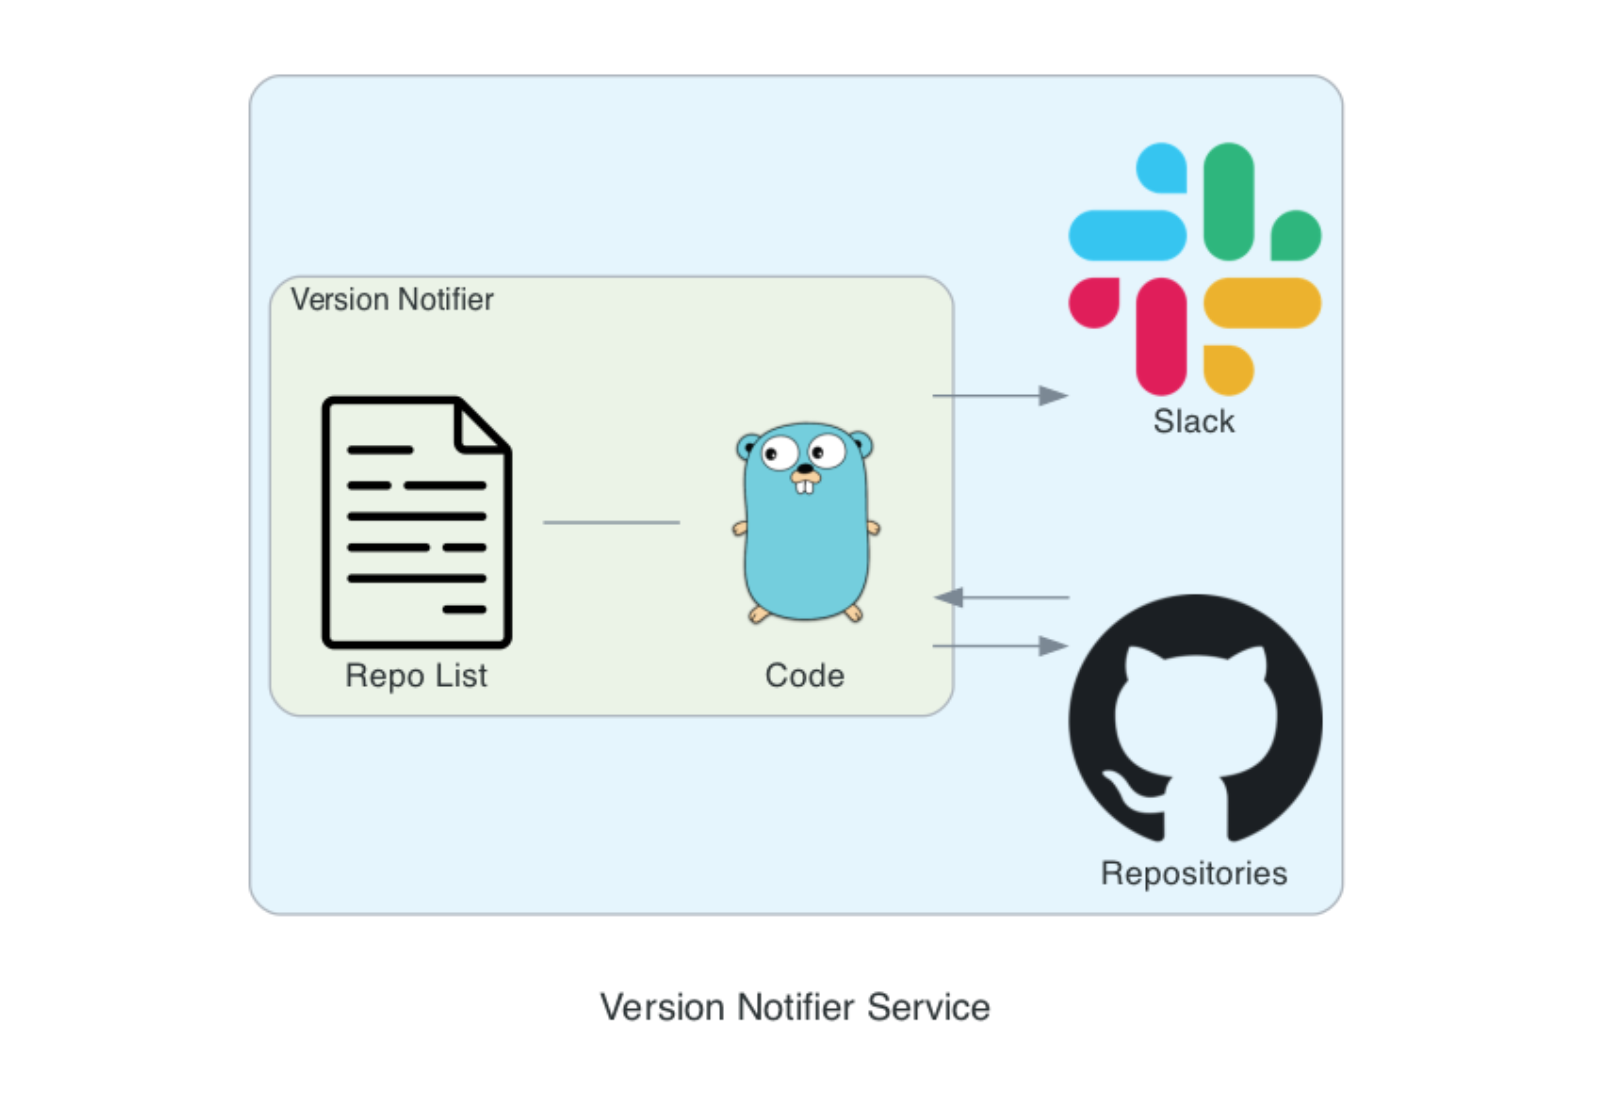
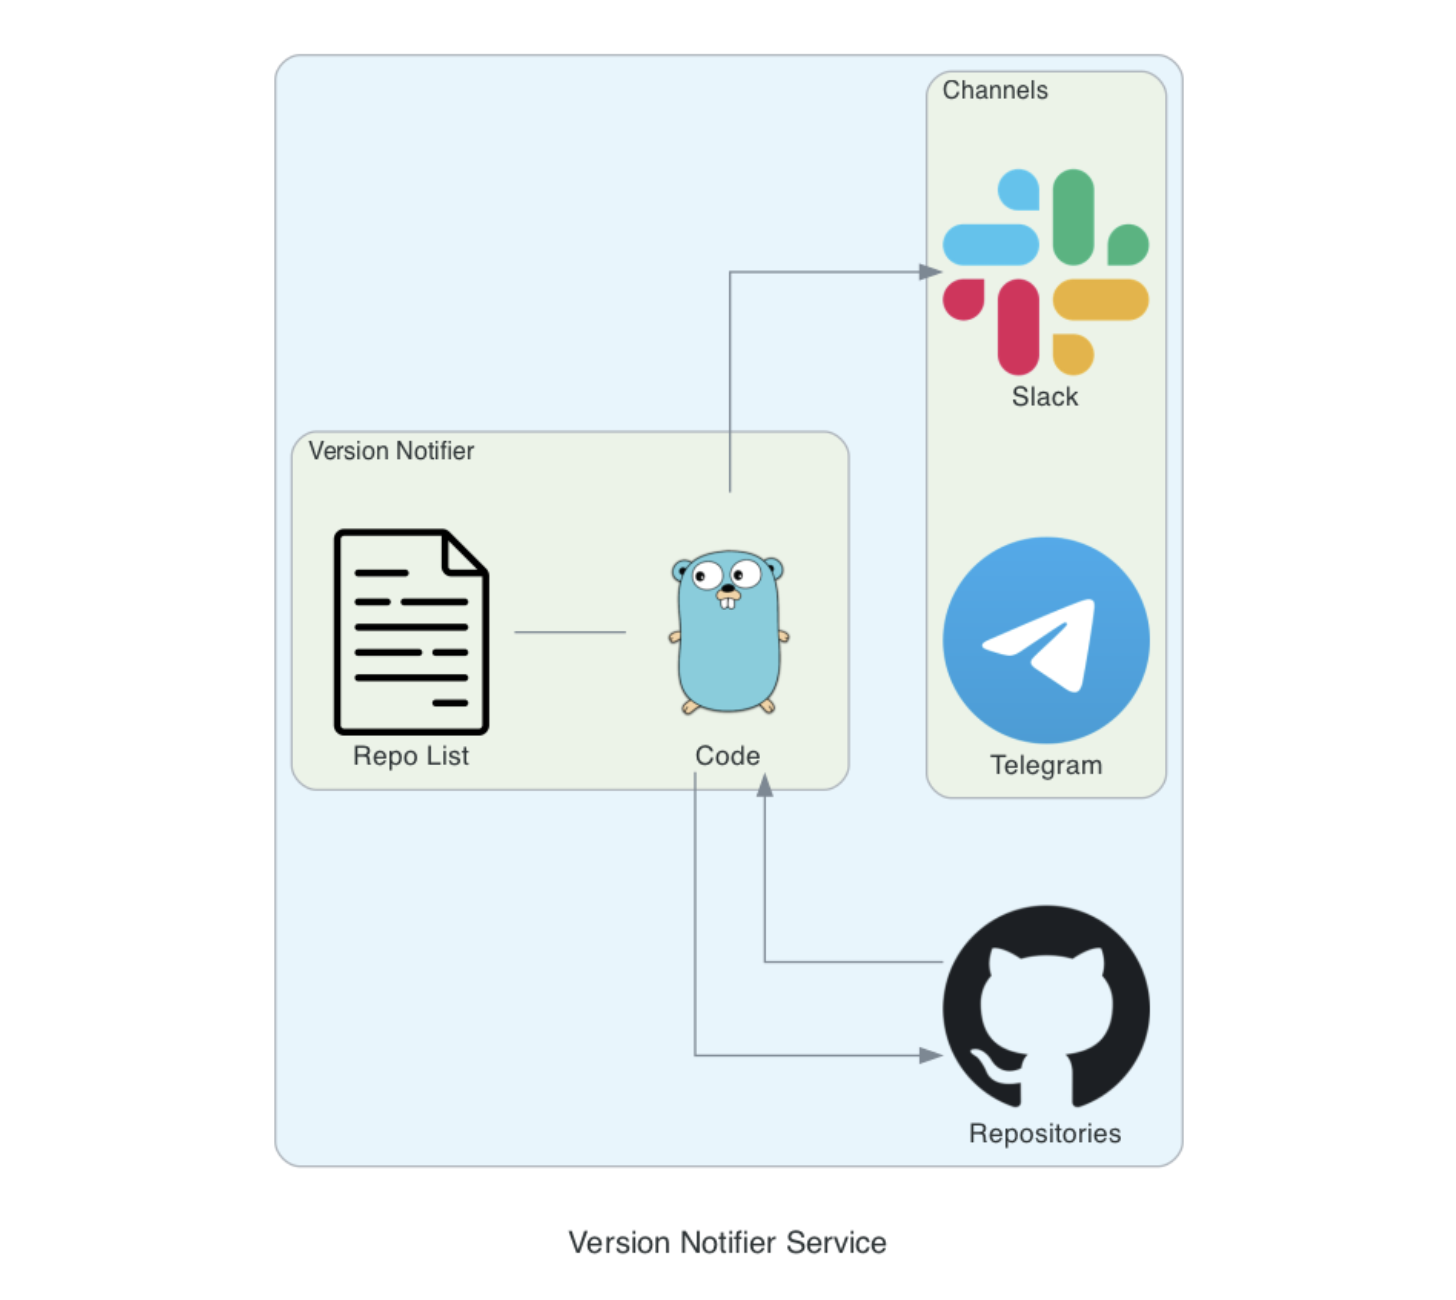
[skip Chart Release] add telegram method

diff --git a/src/internal/telegram_notifier/telegram_notifier.go b/src/internal/telegram_notifier/telegram_notifier.go
@@ -5,9 +5,11 @@ import (
 	"log"
 	"os"
 	"strconv"
+	"strings"
 	"yuvalpress/version-notifier/internal/release_notes"
 )
 
+// getBot returns a telegram bot initialized with the token in context
 func getBot() (*tg.BotAPI, error) {
 	token, exists := os.LookupEnv("TELEGRAM_TOKEN")
 	if !exists {
@@ -24,9 +26,36 @@ func getBot() (*tg.BotAPI, error) {
 	return bot, nil
 }
 
-func Notify(user, repo, url, oldVer, newVer, updateLevel string) {
+// sendMessage implements the basic use of sending a message and handles the error
+func sendMessage(bot *tg.BotAPI, msg tg.MessageConfig) {
+	_, err := bot.Send(msg)
+	if err != nil {
+		log.Printf("Failed sending message: %e\n", err)
+	}
+}
+
+// sendReleaseNotes retrieves the release notes for the given release and sends them as text
+func sendReleaseNotes(bot *tg.BotAPI, msg tg.MessageConfig, url string) {
+	notes := release_notes.GetReleaseNotes(url, "text")
+	if notes != "" {
+		releaseNotesMessage := "\n*Release Notes:*\n" + strings.ReplaceAll(strings.ReplaceAll(notes, "_", "\\_"), "*", "\\*")
+
+		msg.Text = releaseNotesMessage
+		if len(msg.Text) > 4095 {
+			for i := 0; i <= len(msg.Text); i = i + 4095 {
+				msg.Text = msg.Text[i : i+4095]
+				sendMessage(bot, msg)
+			}
+		} else {
+			sendMessage(bot, msg)
+		}
+	}
+}
+
+// Notify notifies the telegram channel given in context
+func Notify(user, repo, url, oldVer, newVer, updateLevel string, sendFullChangelog bool) {
+	// configure bot and chatID
 	bot, _ := getBot()
-	notes := release_notes.GetReleaseNotes(url, "mrkdwn")
 	chatID, exists := os.LookupEnv("TELEGRAM_CHAT_ID")
 	if !exists {
 		log.Panicln("The TELEGRAM_CHAT_ID environment variable doesn't exist")
@@ -37,13 +66,18 @@ func Notify(user, repo, url, oldVer, newVer, updateLevel string) {
 		log.Panicln("The TELEGRAM_CHAT_ID environment variable cannot be converted to Int.\nPlease enter numbers only")
 	}
 
-	message := "*New " + updateLevel + " update found for package: " + user + "/" + repo + "*" + "\n" + oldVer + " -> " + newVer + "\n*ChangeLog:\n" + notes
+	message := "*New " + updateLevel + " update found for package: " + user + "/" + repo + "*" + "\n" + oldVer + " -> " + newVer
 
+	// initialize msg object
 	msg := tg.NewMessage(IntChatID, message)
 	msg.ParseMode = "Markdown"
 
-	_, err = bot.Send(msg)
-	if err != nil {
-		log.Panicf("Failed sending message: %e", err)
+	// send message
+	if sendFullChangelog {
+		sendMessage(bot, msg)
+		sendReleaseNotes(bot, msg, url)
+	} else {
+		msg.Text = msg.Text + "\n\n" + "*New Version Details:*\n" + url
+		sendMessage(bot, msg)
 	}
 }

diff --git a/src/main.go b/src/main.go
@@ -8,6 +8,7 @@ import (
 	"net/http"
 	"os"
 	"regexp"
+	"strconv"
 	"strings"
 	"time"
 	"yuvalpress/version-notifier/internal/slack_notifier"
@@ -216,14 +217,30 @@ func download(username, repoName string) ([]*jparser.Container, error) {
 // notify is responsible for notifying a selected Slack channel.
 // in the future, more methods will be added
 func notify(user, repo, url, oldVer, newVer string) {
-	method := os.Getenv("NOTIFICATION_METHOD")
+	method, found := os.LookupEnv("NOTIFICATION_METHOD")
+	if !found {
+		log.Panicln("The NOTIFICATION_METHOD environment variable must be set!")
+	}
+
+	sendFullChangelog, found := os.LookupEnv("SEND_FULL_CHANGELOG")
+	if !found {
+		log.Println("The SEND_FULL_CHANGELOG environment variable is not set! Defaulting to `false`")
+	}
+
+	// convert to bool
+	sendBool, err := strconv.ParseBool(sendFullChangelog)
+	if err != nil {
+		log.Panicf("The SEND_FULL_CHANGELOG environment variable must be set to true or false only!")
+	}
 
 	if method == "not set" {
 		log.Panicln("The NOTIFICATION_METHOD environment variable must be set!")
+
 	} else if method == "telegram" {
-		telegram_notifier.Notify(user, repo, url, oldVer, newVer, getUpdateLevel(oldVer, newVer))
+		telegram_notifier.Notify(user, repo, url, oldVer, newVer, getUpdateLevel(oldVer, newVer), sendBool)
+
 	} else if method == "slack" {
-		slack_notifier.Notify(user, repo, url, oldVer, newVer, getUpdateLevel(oldVer, newVer))
+		slack_notifier.Notify(user, repo, url, oldVer, newVer, getUpdateLevel(oldVer, newVer), sendBool)
 	}
 }
 

diff --git a/diagram.py b/diagram.py
@@ -1,18 +1,23 @@
 from diagrams import Cluster, Diagram
-from diagrams.saas.chat import Slack
+from diagrams.saas.chat import Slack, Telegram
 from diagrams.programming.language import Go
 from diagrams.onprem.vcs import Github
 from diagrams.custom import Custom
 
-with Diagram("\nVersion Notifier Service", show=False):
+with Diagram("\nVersion Notifier Service", show=False, direction="LR"):
     with Cluster(""):
         repo = Github("Repositories")
         
-        with Cluster("Version Notifier"):
+        with Cluster("Version Notifier", direction="LR"):
             notifier = Go("Code")
             custom = Custom(label="Repo List", icon_path="./docs/config-file.png")
             custom - notifier
         
         notifier >> repo
         repo >> notifier
-        notifier >> Slack("Slack")
+
+        with Cluster("Channels", direction="lr"):
+            slack = Slack("Slack")
+            telegram = Telegram("Telegram")
+
+        notifier >> slack

diff --git a/src/internal/slack_notifier/slack.go b/src/internal/slack_notifier/slack.go
@@ -16,7 +16,7 @@ var (
 )
 
 // Notify sends a slack message with the supplied data
-func Notify(user, repo, url, oldVer, newVer, updateLevel string) {
+func Notify(user, repo, url, oldVer, newVer, updateLevel string, sendFullChangelog bool) {
 	slackClient := slack.New(os.Getenv("SLACK_TOKEN"))
 
 	attachment := slack.Attachment{
@@ -25,7 +25,7 @@ func Notify(user, repo, url, oldVer, newVer, updateLevel string) {
 	}
 
 	notes := release_notes.GetReleaseNotes(url, "text")
-	if notes != "" {
+	if notes != "" && sendFullChangelog {
 		_, _, err := slackClient.PostMessage(
 			os.Getenv("SLACK_CHANNEL"),
 			slack.MsgOptionAttachments(attachment),

diff --git a/src/internal/telegram_notifier/telegram_test.go b/src/internal/telegram_notifier/telegram_test.go
@@ -1,0 +1,16 @@
+package telegram_notifier
+
+import (
+	"os"
+	"testing"
+)
+
+func TestNotify(t *testing.T) {
+	_ = os.Setenv("TELEGRAM_TOKEN", "5808559800:AAEb2JxWD8V-69EHac_jXYUXmxOneLQOSKA")
+	_ = os.Setenv("TELEGRAM_CHAT_ID", "876700915")
+
+	Notify("google",
+		"go-github",
+		"https://github.com/google/go-github/releases/tag/v48.1.0",
+		"v48.0.0", "v48.1.0", "minor", false)
+}

diff --git a/README.md b/README.md
@@ -2,7 +2,7 @@
 🕷 **Version Notifier** - your Friendly Neighborhood Spiderman, only geeker 🤓
 
 Version Notifier is a modern solution for the "being notified" aspect of each Techy's day-to-day work.
-</br>By using it, you'll be notified for any new global GitHub repository release you choose, directly to your Slack channel.</br>
+</br>By using it, you'll be notified for any new global GitHub repository release you choose, directly to your Slack / Telegram channel.</br></br>
 ![Architecture](./docs/service.png)
 ## Getting Started 🏁
 You can deploy the application in one of two ways:</br>
@@ -21,12 +21,20 @@ Create a dockerfile from the Version-Notifier base image and deploy it as a stan
     # Name this file Dockerfile
     FROM yuvalpress/version-notifier:latest
     
-    # You MUST Set this environment variables for the application to send notification to slack_notifier
+    # NOTE - Set only one method - slack or telegram - not both
+    # You MUST Set this environment variables for the application to send notification to slack
+    ENV NOTIFICATION_METHOD slack
     ENV SLACK_CHANNEL {{ value }}
     ENV SLACK_TOKEN {{ value }}
+    
+    # You MUST Set this environment variables for the application to send notification to telegram
+    ENV NOTIFICATION_METHOD telegram
+    ENV TELEGRAM_TOKEN {{ value }}
+    ENV TELEGRAM_CHAT_ID {{ value }}
 
     # Optional
     ENV NOTIFY {{ value }}
+    ENV SEND_FULL_CHANGELOG {{ value }}
   ```
   
   Build and Deploy:
@@ -46,6 +54,10 @@ List represented as string with the following possible keywords: `major, minor, 
   * "minor" - only notify about `minor` version changes
 
 If not set, NOTIFY will be automatically set to `all`</br></br>
+
+### SEND_FULL_CHANGELOG
+Boolean value represented as a string: `true` or `false`</br>
+This environment variable is responsible for the form of the message to be sent.</br>
 
 ### config.yaml
 The config.yaml file holds the repositories to be scraped by Version-Notifier.
@@ -70,11 +82,18 @@ repos:
     # add custom config.yaml file
     COPY config.yaml ./config.yaml
     
-    # You MUST Set this environment variables for the application to send notification to slack_notifier
+    # NOTE - Set only one method - slack or telegram - not both
+    # You MUST Set this environment variables for the application to send notification to slack
+    ENV NOTIFICATION_METHOD slack
     ENV SLACK_CHANNEL {{ value }}
     ENV SLACK_TOKEN {{ value }}
+    
+    # You MUST Set this environment variables for the application to send notification to telegram
+    ENV NOTIFICATION_METHOD telegram
+    ENV TELEGRAM_TOKEN {{ value }}
+    ENV TELEGRAM_CHAT_ID {{ value }}
   ```
-</br></br>
+</br>
 ## Verification of Success 🎯
 If the deployment was successful, you'll see the logs rolling out of your container:
 ### Using Docker
@@ -88,10 +107,11 @@ pod=$(kubectl get pods -n notifier -l app=version-notifier -o yaml | yq '.items[
 
 ## Upcoming Features ✨
 * Support for more notification methods (currently Slack only).
+* Support more than one notification method at a time (currently Slack only).
 * Add support for Pypi repositories
 * Add support for private GitHub repositories
 * Add support for Docker Images in Dockerhub
-<br></br>
+<br>
 ## Want to contribute? 💻
 PR's are more than welcome!
 
